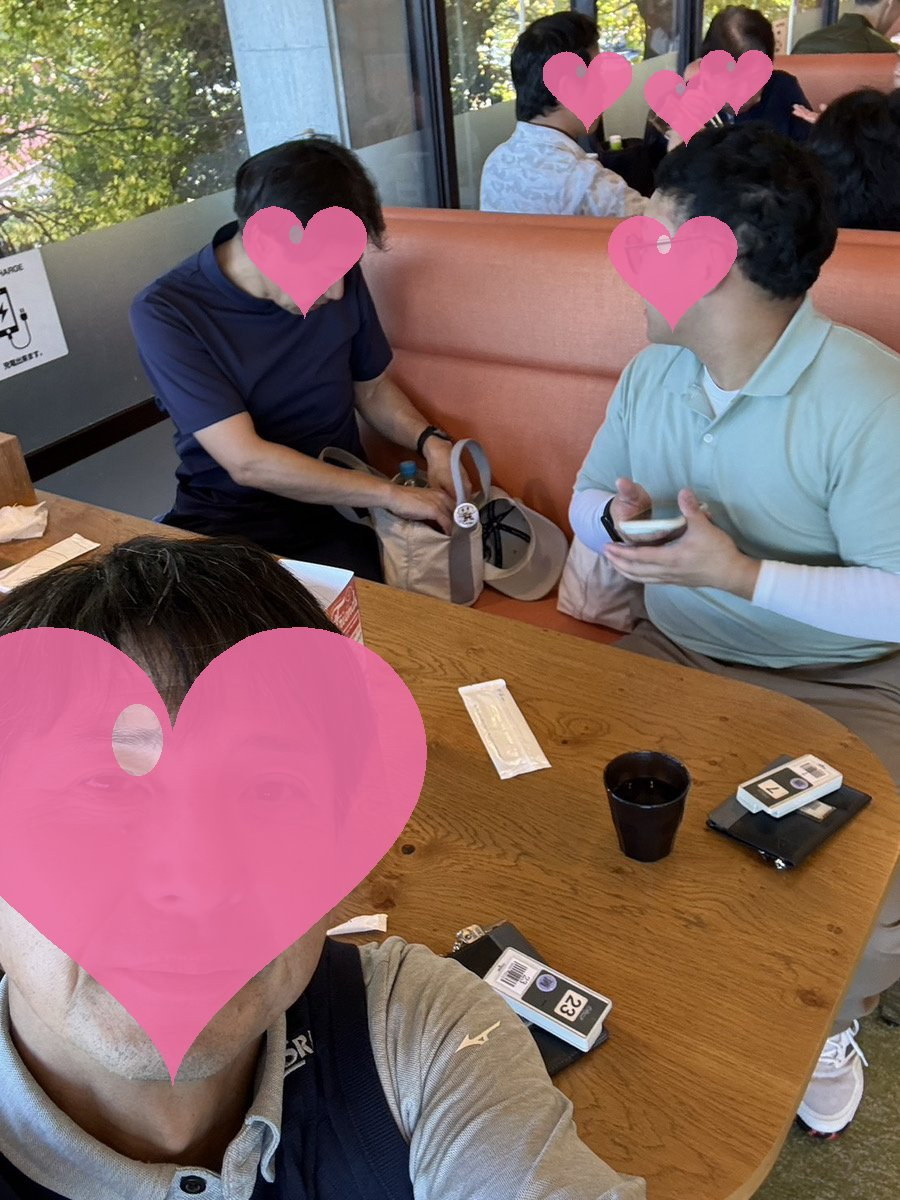
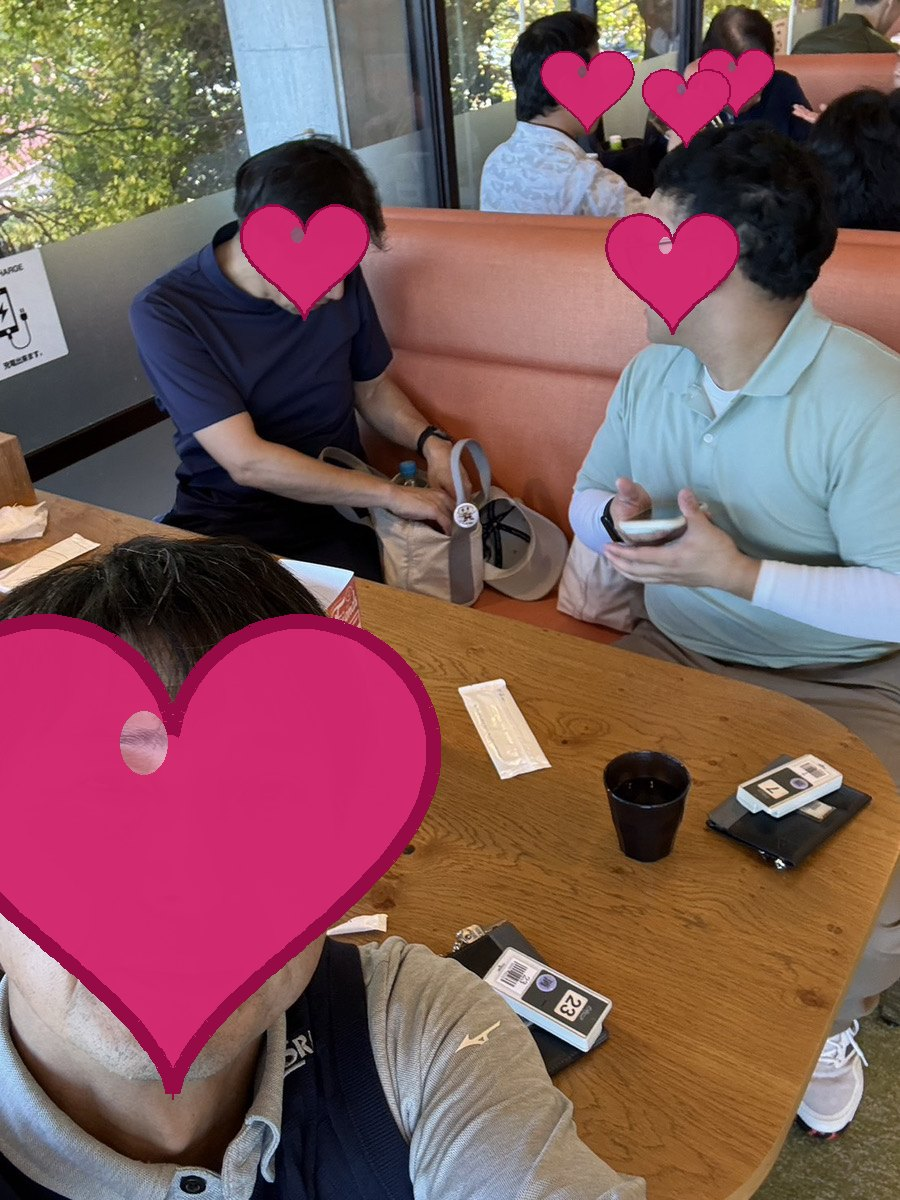
縦長写真を全体表示にし、顔のハートを濃くする

diff --git a/index.html b/index.html
@@ -65,7 +65,7 @@
     background:
       radial-gradient(circle at 18% 22%, rgba(232,169,192,.18), transparent 42%),
       linear-gradient(180deg, rgba(90,31,57,.78), rgba(63,20,42,.90)),
-      url('images/hero.jpg?v=20261119') center/cover no-repeat;
+      url('images/hero.jpg?v=20261119b') center/cover no-repeat;
     position:relative;overflow:hidden;padding:120px 0 80px;
   }
   .hero::before{content:"";position:absolute;inset:0;opacity:.05;pointer-events:none;background-image:repeating-linear-gradient(115deg,#fff 0 2px,transparent 2px 9px)}
@@ -218,13 +218,15 @@
   /* ---------- Slideshow / Gallery ---------- */
   .scene-show{display:flex;flex-direction:column;gap:16px;margin-top:8px}
   .scene-stage{
-    position:relative;aspect-ratio:16/9;min-height:380px;
+    position:relative;aspect-ratio:16/9;min-height:420px;
     border:1px solid var(--line);overflow:hidden;
-    background:linear-gradient(150deg,#8f3557,#3f142a);
+    background:
+      radial-gradient(circle at 50% 40%, rgba(232,169,192,.18), transparent 55%),
+      linear-gradient(150deg,#8f3557,#3f142a);
   }
-  .scene-slide{position:absolute;inset:0;opacity:0;visibility:hidden;transition:opacity .55s ease,visibility .55s ease}
+  .scene-slide{position:absolute;inset:0;opacity:0;visibility:hidden;transition:opacity .55s ease,visibility .55s ease;display:flex;align-items:center;justify-content:center}
   .scene-slide.is-active{opacity:1;visibility:visible}
-  .scene-slide img{width:100%;height:100%;object-fit:cover}
+  .scene-slide img{width:100%;height:100%;object-fit:contain;object-position:center}
   .scene-side{
     border:1px solid var(--line);padding:14px 18px;
     display:flex;flex-direction:row;flex-wrap:wrap;align-items:center;justify-content:center;gap:12px 16px;
@@ -241,7 +243,7 @@
   .scene-dots button.is-active{background:var(--gold)}
   .gal{display:grid;grid-template-columns:repeat(3,1fr);gap:16px;margin-top:42px}
   .gal-item{aspect-ratio:1/1;position:relative;overflow:hidden;border:1px solid var(--line);background:linear-gradient(150deg,#8f3557,#3f142a)}
-  .gal-item img{width:100%;height:100%;object-fit:cover}
+  .gal-item img{width:100%;height:100%;object-fit:contain;object-position:center;background:linear-gradient(150deg,#8f3557,#3f142a)}
 
   /* ---------- reveal ---------- */
   .rv{opacity:0;transform:translateY(24px);transition:opacity .9s ease,transform .9s ease}
@@ -461,26 +463,26 @@
     </div>
     <div class="scene-show rv" data-slideshow>
       <div class="scene-stage">
-        <figure class="scene-slide is-active"><img src="images/slideshow/slide-01.jpg?v=20261119" alt="クラブハウスでの集合"></figure>
-        <figure class="scene-slide"><img src="images/slideshow/slide-02.jpg?v=20261119" alt="ラウンジでの記念写真"></figure>
-        <figure class="scene-slide"><img src="images/slideshow/slide-03.jpg?v=20261119" alt="クラブハウスでの交流"></figure>
-        <figure class="scene-slide"><img src="images/slideshow/slide-04.jpg?v=20261119" alt="コースでの一コマ"></figure>
-        <figure class="scene-slide"><img src="images/slideshow/slide-05.jpg?v=20261119" alt="グリーンでの祝福"></figure>
-        <figure class="scene-slide"><img src="images/slideshow/slide-06.jpg?v=20261119" alt="プレー中の様子"></figure>
-        <figure class="scene-slide"><img src="images/slideshow/slide-07.jpg?v=20261119" alt="ティーショットの一コマ"></figure>
-        <figure class="scene-slide"><img src="images/slideshow/slide-08.jpg?v=20261119" alt="参加者の集合写真"></figure>
-        <figure class="scene-slide"><img src="images/slideshow/slide-09.jpg?v=20261119" alt="ラウンドの思い出"></figure>
-        <figure class="scene-slide"><img src="images/slideshow/slide-10.jpg?v=20261119" alt="コースサイドの風景"></figure>
-        <figure class="scene-slide"><img src="images/slideshow/slide-11.jpg?v=20261119" alt="クラブハウスでの一幕"></figure>
-        <figure class="scene-slide"><img src="images/slideshow/slide-12.jpg?v=20261119" alt="フェアウェイでのショット"></figure>
-        <figure class="scene-slide"><img src="images/slideshow/slide-13.jpg?v=20261119" alt="参加者同士の交流"></figure>
-        <figure class="scene-slide"><img src="images/slideshow/slide-14.jpg?v=20261119" alt="プレー後の様子"></figure>
-        <figure class="scene-slide"><img src="images/slideshow/slide-15.jpg?v=20261119" alt="記念の一枚"></figure>
-        <figure class="scene-slide"><img src="images/slideshow/slide-16.jpg?v=20261119" alt="ラウンド風景"></figure>
-        <figure class="scene-slide"><img src="images/slideshow/slide-17.jpg?v=20261119" alt="笑顔のスナップ"></figure>
-        <figure class="scene-slide"><img src="images/slideshow/slide-18.jpg?v=20261119" alt="コンペの一コマ"></figure>
-        <figure class="scene-slide"><img src="images/slideshow/slide-19.jpg?v=20261119" alt="集合の記念写真"></figure>
-        <figure class="scene-slide"><img src="images/slideshow/slide-20.jpg?v=20261119" alt="コースの景色"></figure>
+        <figure class="scene-slide is-active"><img src="images/slideshow/slide-01.jpg?v=20261119b" alt="クラブハウスでの集合"></figure>
+        <figure class="scene-slide"><img src="images/slideshow/slide-02.jpg?v=20261119b" alt="ラウンジでの記念写真"></figure>
+        <figure class="scene-slide"><img src="images/slideshow/slide-03.jpg?v=20261119b" alt="クラブハウスでの交流"></figure>
+        <figure class="scene-slide"><img src="images/slideshow/slide-04.jpg?v=20261119b" alt="コースでの一コマ"></figure>
+        <figure class="scene-slide"><img src="images/slideshow/slide-05.jpg?v=20261119b" alt="グリーンでの祝福"></figure>
+        <figure class="scene-slide"><img src="images/slideshow/slide-06.jpg?v=20261119b" alt="プレー中の様子"></figure>
+        <figure class="scene-slide"><img src="images/slideshow/slide-07.jpg?v=20261119b" alt="ティーショットの一コマ"></figure>
+        <figure class="scene-slide"><img src="images/slideshow/slide-08.jpg?v=20261119b" alt="参加者の集合写真"></figure>
+        <figure class="scene-slide"><img src="images/slideshow/slide-09.jpg?v=20261119b" alt="ラウンドの思い出"></figure>
+        <figure class="scene-slide"><img src="images/slideshow/slide-10.jpg?v=20261119b" alt="コースサイドの風景"></figure>
+        <figure class="scene-slide"><img src="images/slideshow/slide-11.jpg?v=20261119b" alt="クラブハウスでの一幕"></figure>
+        <figure class="scene-slide"><img src="images/slideshow/slide-12.jpg?v=20261119b" alt="フェアウェイでのショット"></figure>
+        <figure class="scene-slide"><img src="images/slideshow/slide-13.jpg?v=20261119b" alt="参加者同士の交流"></figure>
+        <figure class="scene-slide"><img src="images/slideshow/slide-14.jpg?v=20261119b" alt="プレー後の様子"></figure>
+        <figure class="scene-slide"><img src="images/slideshow/slide-15.jpg?v=20261119b" alt="記念の一枚"></figure>
+        <figure class="scene-slide"><img src="images/slideshow/slide-16.jpg?v=20261119b" alt="ラウンド風景"></figure>
+        <figure class="scene-slide"><img src="images/slideshow/slide-17.jpg?v=20261119b" alt="笑顔のスナップ"></figure>
+        <figure class="scene-slide"><img src="images/slideshow/slide-18.jpg?v=20261119b" alt="コンペの一コマ"></figure>
+        <figure class="scene-slide"><img src="images/slideshow/slide-19.jpg?v=20261119b" alt="集合の記念写真"></figure>
+        <figure class="scene-slide"><img src="images/slideshow/slide-20.jpg?v=20261119b" alt="コースの景色"></figure>
       </div>
       <div class="scene-side">
         <div class="scene-count" data-count>1 / 20</div>
@@ -490,12 +492,12 @@
       </div>
     </div>
     <div class="gal rv">
-      <div class="gal-item"><img src="images/slideshow/slide-04.jpg?v=20261119" alt="コースでの一コマ"></div>
-      <div class="gal-item"><img src="images/slideshow/slide-05.jpg?v=20261119" alt="グリーンでの祝福"></div>
-      <div class="gal-item"><img src="images/slideshow/slide-02.jpg?v=20261119" alt="ラウンジでの記念写真"></div>
-      <div class="gal-item"><img src="images/slideshow/slide-01.jpg?v=20261119" alt="クラブハウスでの集合"></div>
-      <div class="gal-item"><img src="images/slideshow/slide-12.jpg?v=20261119" alt="フェアウェイでのショット"></div>
-      <div class="gal-item"><img src="images/slideshow/slide-20.jpg?v=20261119" alt="コースの景色"></div>
+      <div class="gal-item"><img src="images/slideshow/slide-04.jpg?v=20261119b" alt="コースでの一コマ"></div>
+      <div class="gal-item"><img src="images/slideshow/slide-05.jpg?v=20261119b" alt="グリーンでの祝福"></div>
+      <div class="gal-item"><img src="images/slideshow/slide-02.jpg?v=20261119b" alt="ラウンジでの記念写真"></div>
+      <div class="gal-item"><img src="images/slideshow/slide-01.jpg?v=20261119b" alt="クラブハウスでの集合"></div>
+      <div class="gal-item"><img src="images/slideshow/slide-12.jpg?v=20261119b" alt="フェアウェイでのショット"></div>
+      <div class="gal-item"><img src="images/slideshow/slide-20.jpg?v=20261119b" alt="コースの景色"></div>
     </div>
   </div>
 </section>
@@ -509,7 +511,7 @@
     </div>
     <div class="venue-grid rv">
       <div class="venue-photo">
-        <img src="images/venue.jpg?v=20261119" alt="関東国際カントリークラブのコースとクラブハウス"
+        <img src="images/venue.jpg?v=20261119b" alt="関東国際カントリークラブのコースとクラブハウス"
              style="width:100%;height:100%;object-fit:cover;">
       </div>
       <div class="venue-info">
